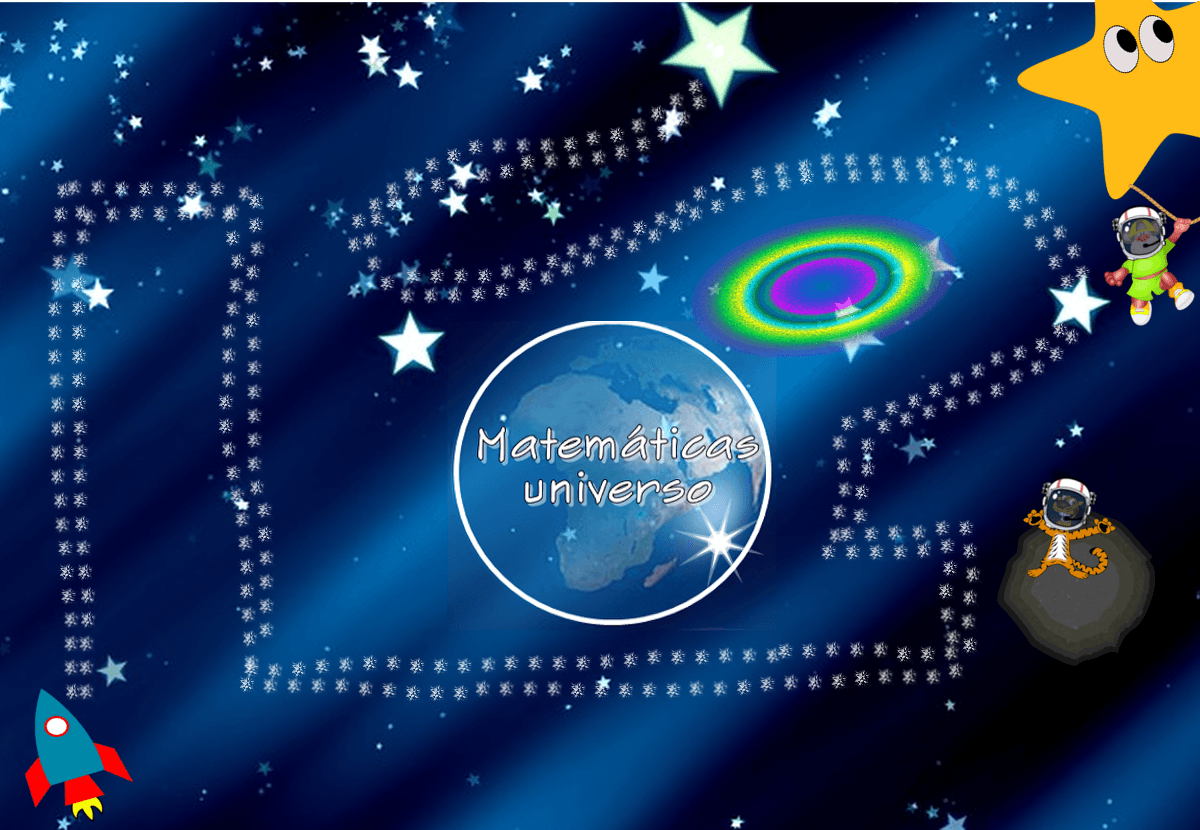
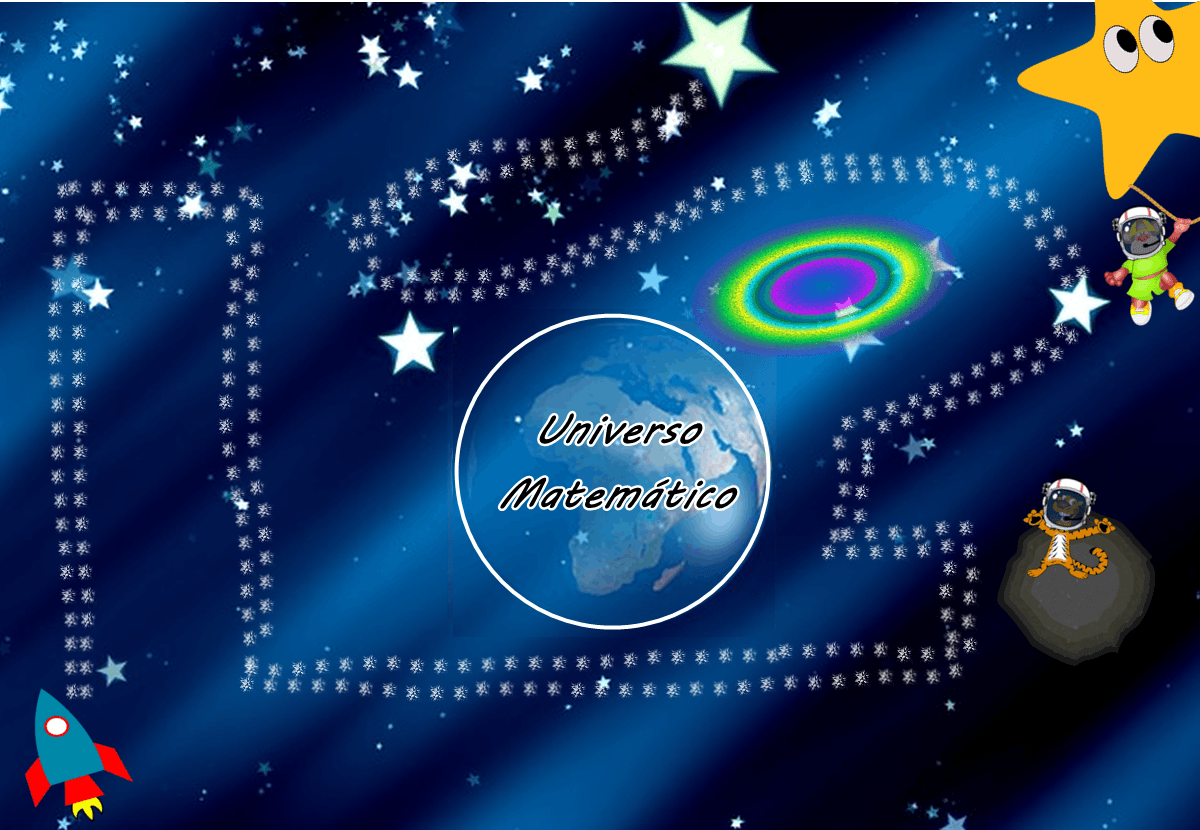
Levelimages texts corrected

Changed region(s): [[0.37, 0.3614, 0.6475, 0.7831]]

diff --git a/js/selectionscreen.js b/js/selectionscreen.js
@@ -77,6 +77,7 @@ localStorage.setItem("level", 1);
 level = 1;
 }
 
+/*
 switch(level){	//Lock the levels corresponding to the level variable
 
 case "1":
@@ -98,6 +99,7 @@ document.getElementById("levelimage3").setAttribute("onclick","alert_locked(2)")
 
 break;
 }
+*/
 
 }
 
